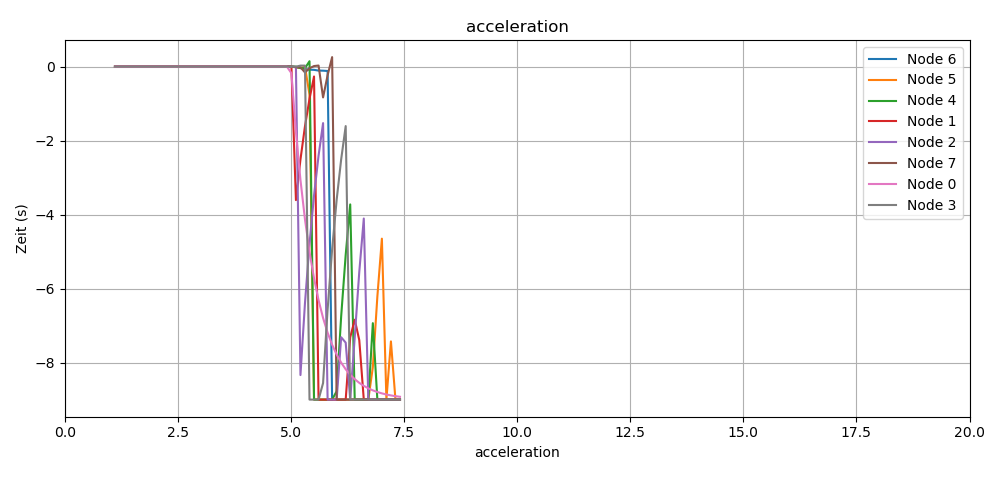
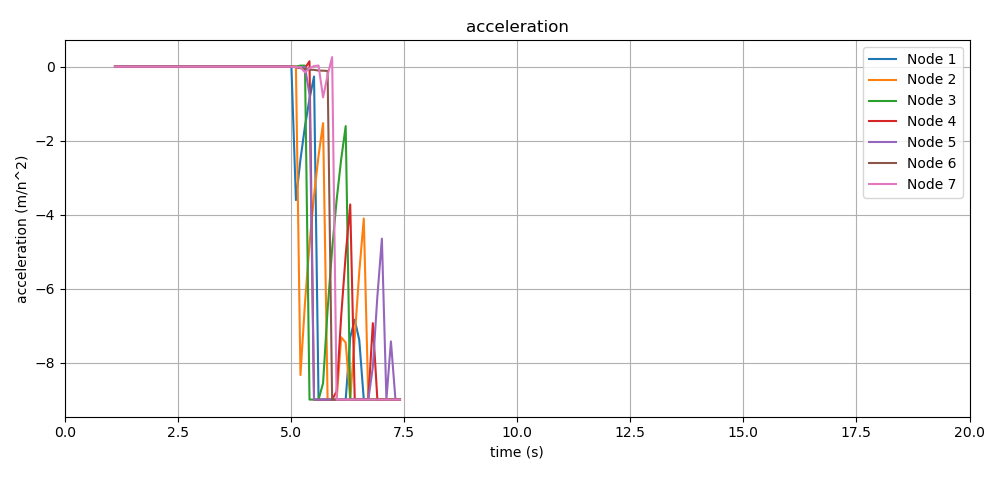
update Crashtest plots

diff --git a/CrashTest.py b/CrashTest.py
@@ -335,17 +335,17 @@ def plot(enVar, showplot):
         fig, ax = plt.subplots(figsize=(10, 5))
         
             
-        for file in os.listdir(f"temp/"):
+        for file in sorted(os.listdir(f"temp/")):
             df = pd.read_csv(f"temp/{file}", sep='\t')
             node_id = int(re.findall(r'\d+', file)[0])
-            if node_id is not 0:
+            if node_id != 0:
                 ax.plot(df['time'], df[value], label=f'Node {node_id}') 
 
         ax.set_xlim([tmin, tmax])
         if ymax != 0 and ymin != 0:
             ax.set_ylim([ymin, ymax])
         ax.grid(True)
-        ax.set_xlabel(value)
+        ax.set_xlabel("time (s)")
         ax.set_ylabel(value_label)
            
         # Anzeigen des Titels für jeden Graphen
